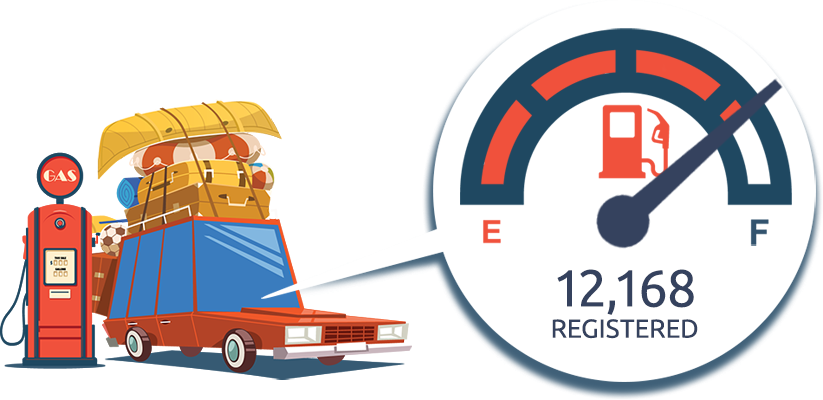
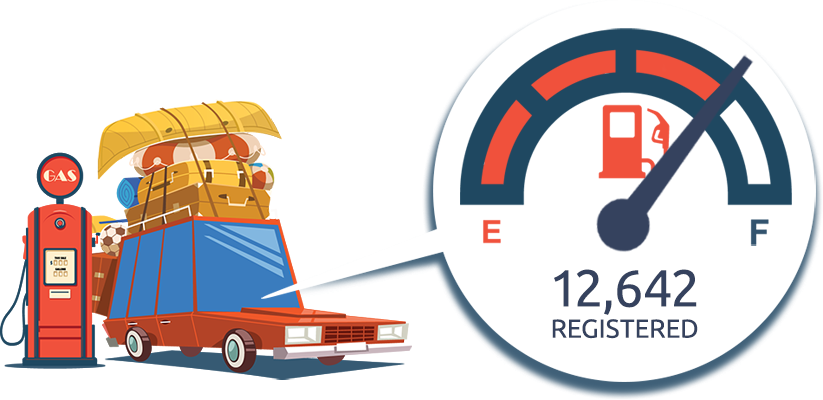
count update

diff --git a/summer-reading/registration/index.html b/summer-reading/registration/index.html
@@ -442,7 +442,7 @@ height="0" width="0" style="display:none;visibility:hidden"></iframe>
         <div class="box-one">
           <h4 class="black roboto no-margin-top">Help us meet our community goal of 16,775 people signed up!</h4>
           <div>If we meet our goal, the Douglas County Libraries Foundation will donate $500 to Nature’s Educators, a top-rated nonprofit educational wildlife organization in Douglas County. </div>
-          <div class="margin-10"><span class="odometer">1</span><span class="odometer">2</span><span class="font-weight-500 black">,</span><span class="odometer">1</span><span class="odometer">6</span><span class="odometer">8</span></div>
+          <div class="margin-10"><span class="odometer">1</span><span class="odometer">2</span><span class="font-weight-500 black">,</span><span class="odometer">6</span><span class="odometer">4</span><span class="odometer">2</span></div>
           <div class="small text-uppercase">Registered</div>
         </div>
         <div class="box-two">
